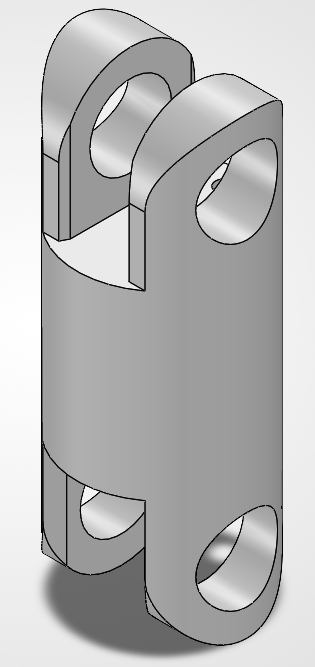
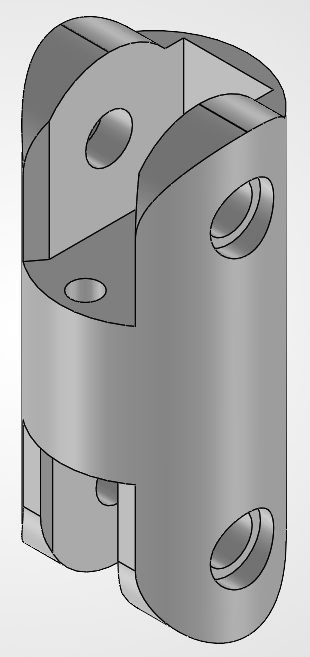
Update Neurotech finger CAD, finger prototype, and add zoomable images
- Add new finger CAD renders and finger prototype test photos with captions
- Update arm, finger, and palm/wrist renders
- Split Prototyping & Testing into Base and Fingers subsections
- Add zoom/pan to the lightbox for images marked zoomable (cad-arm8)
- Make project cover images open in the lightbox

diff --git a/src/components/ZoomableImage.tsx b/src/components/ZoomableImage.tsx
@@ -1,0 +1,149 @@
+import { useEffect, useRef, useState, type PointerEvent as ReactPointerEvent } from 'react'
+import { imageUrl } from '../lib/paths'
+import type { ProjectImage } from '../types'
+import Icon from './Icon'
+
+const MIN = 1
+const MAX = 5
+const CLICK_ZOOM = 2.5
+
+interface View {
+  scale: number
+  x: number
+  y: number
+}
+
+/**
+ * An image inside the lightbox that can be zoomed (scroll wheel, pinch, click,
+ * or the +/- buttons) and panned by dragging once zoomed in.
+ */
+export default function ZoomableImage({ image }: { image: ProjectImage }) {
+  const boxRef = useRef<HTMLDivElement>(null)
+  const [view, setView] = useState<View>({ scale: 1, x: 0, y: 0 })
+  const viewRef = useRef(view)
+  viewRef.current = view
+
+  const pointers = useRef(new Map<number, { x: number; y: number }>())
+  const gesture = useRef({ moved: false, pinchDist: 0 })
+
+  /** Keep the zoomed image covering the box so it can't be dragged off-screen. */
+  const clamp = (v: View): View => {
+    const box = boxRef.current
+    if (!box) return v
+    const scale = Math.min(MAX, Math.max(MIN, v.scale))
+    const w = box.clientWidth
+    const h = box.clientHeight
+    return {
+      scale,
+      x: Math.min(0, Math.max(w - w * scale, v.x)),
+      y: Math.min(0, Math.max(h - h * scale, v.y)),
+    }
+  }
+
+  /** Zoom to `scale`, keeping the point (px, py) in the box fixed under the cursor. */
+  const zoomAt = (scale: number, px: number, py: number) => {
+    const v = viewRef.current
+    const next = Math.min(MAX, Math.max(MIN, scale))
+    const ratio = next / v.scale
+    setView(clamp({ scale: next, x: px - (px - v.x) * ratio, y: py - (py - v.y) * ratio }))
+  }
+
+  const zoomCenter = (scale: number) => {
+    const box = boxRef.current
+    if (box) zoomAt(scale, box.clientWidth / 2, box.clientHeight / 2)
+  }
+
+  const localPoint = (clientX: number, clientY: number) => {
+    const rect = boxRef.current!.getBoundingClientRect()
+    return { x: clientX - rect.left, y: clientY - rect.top }
+  }
+
+  // Wheel zoom needs a non-passive listener so the page doesn't scroll.
+  useEffect(() => {
+    const box = boxRef.current
+    if (!box) return
+    const onWheel = (e: WheelEvent) => {
+      e.preventDefault()
+      const p = localPoint(e.clientX, e.clientY)
+      zoomAt(viewRef.current.scale * Math.exp(-e.deltaY * 0.0015), p.x, p.y)
+    }
+    box.addEventListener('wheel', onWheel, { passive: false })
+    return () => box.removeEventListener('wheel', onWheel)
+  })
+
+  const pinchDistance = () => {
+    const [a, b] = [...pointers.current.values()]
+    return Math.hypot(a.x - b.x, a.y - b.y)
+  }
+
+  const onPointerDown = (e: ReactPointerEvent<HTMLDivElement>) => {
+    e.currentTarget.setPointerCapture(e.pointerId)
+    pointers.current.set(e.pointerId, { x: e.clientX, y: e.clientY })
+    if (pointers.current.size === 1) gesture.current.moved = false
+    if (pointers.current.size === 2) gesture.current.pinchDist = pinchDistance()
+  }
+
+  const onPointerMove = (e: ReactPointerEvent<HTMLDivElement>) => {
+    const prev = pointers.current.get(e.pointerId)
+    if (!prev) return
+    const dx = e.clientX - prev.x
+    const dy = e.clientY - prev.y
+    pointers.current.set(e.pointerId, { x: e.clientX, y: e.clientY })
+    if (Math.abs(dx) + Math.abs(dy) > 2) gesture.current.moved = true
+
+    if (pointers.current.size === 2) {
+      const dist = pinchDistance()
+      const [a, b] = [...pointers.current.values()]
+      const mid = localPoint((a.x + b.x) / 2, (a.y + b.y) / 2)
+      if (gesture.current.pinchDist > 0) zoomAt(viewRef.current.scale * (dist / gesture.current.pinchDist), mid.x, mid.y)
+      gesture.current.pinchDist = dist
+    } else if (pointers.current.size === 1 && viewRef.current.scale > 1) {
+      const v = viewRef.current
+      setView(clamp({ ...v, x: v.x + dx, y: v.y + dy }))
+    }
+  }
+
+  const onPointerUp = (e: ReactPointerEvent<HTMLDivElement>) => {
+    const wasTap = pointers.current.size === 1 && !gesture.current.moved
+    pointers.current.delete(e.pointerId)
+    if (pointers.current.size < 2) gesture.current.pinchDist = 0
+    if (wasTap) {
+      const p = localPoint(e.clientX, e.clientY)
+      if (viewRef.current.scale > 1) setView({ scale: 1, x: 0, y: 0 })
+      else zoomAt(CLICK_ZOOM, p.x, p.y)
+    }
+  }
+
+  const zoomed = view.scale > 1
+
+  return (
+    <div className="zoom">
+      <div
+        ref={boxRef}
+        className={`zoom__box ${zoomed ? 'zoom__box--zoomed' : ''}`}
+        onPointerDown={onPointerDown}
+        onPointerMove={onPointerMove}
+        onPointerUp={onPointerUp}
+        onPointerCancel={onPointerUp}
+      >
+        <img
+          src={imageUrl(image.src)}
+          alt={image.alt ?? image.caption ?? ''}
+          draggable={false}
+          style={{ transform: `translate(${view.x}px, ${view.y}px) scale(${view.scale})` }}
+        />
+      </div>
+
+      <div className="zoom__controls">
+        <button type="button" onClick={() => zoomCenter(view.scale / 1.5)} disabled={!zoomed} aria-label="Zoom out">
+          <Icon name="minus" size={18} />
+        </button>
+        <span className="zoom__level">{Math.round(view.scale * 100)}%</span>
+        <button type="button" onClick={() => zoomCenter(view.scale * 1.5)} disabled={view.scale >= MAX} aria-label="Zoom in">
+          <Icon name="plus" size={18} />
+        </button>
+        <span className="zoom__hint">Scroll, pinch, or click to zoom · drag to pan</span>
+      </div>
+    </div>
+  )
+}

diff --git a/src/content/projects/neurotech.ts b/src/content/projects/neurotech.ts
@@ -15,7 +15,7 @@ const neurotech = {
   team: 'Prosthetic, Mechanical',
   tags: ['Assistive Tech', 'CAD', 'Prototyping', '3D Printing', 'User-Centered Design'],
   tools: ['SolidWorks', 'SolidWorks Simulation', '3D printing'],
-  cover: { src: 'neurotech/cad-arm8.png' },
+  cover: { src: 'neurotech/cad-arm8.png', caption: 'Basic Forearm to Fingers Model', zoomable: true },
 
   /*
   highlights: [
@@ -73,7 +73,7 @@ const neurotech = {
       paragraphs: [
         'Designed, conducted FEA analyses (WIP), and produced GD&T engineering drawings (TBD) in SolidWorks.',
       ],
-      images: [{ src: 'neurotech/cad-arm8.png', caption: 'Basic Forearm to Fingers Model' }],
+      images: [{ src: 'neurotech/cad-arm8.png', caption: 'Basic Forearm to Fingers Model', zoomable: true }],
       centered: true,
       subsections: [
         {
@@ -81,12 +81,16 @@ const neurotech = {
           images: [
             { src: 'neurotech/cad-finger3.png', caption: 'Proximal Finger Segment' },
             { src: 'neurotech/cad-finger4.png', caption: 'Middle Finger Segment' },
+            { src: 'neurotech/cad-finger7.png', caption: 'Distal Finger Segment (Fingertip)' },
+            { src: 'neurotech/cad-finger6.png', caption: 'Complete Finger Flexion, Side View' },
+            { src: 'neurotech/cad-finger5-front.png', caption: 'Four-Finger Assembly Mounted to Palm Frame, Front View' },
+            { src: 'neurotech/cad-finger5-back.png', caption: 'Four-Finger Assembly Mounted to Palm Frame, Back View' },
           ],
           centered: true,
         },
         {
           title: 'Palm/Wrist',
-          images: [{ src: 'neurotech/cad-palmwrist7.png', caption: 'Hand-Fingers Assembly (In Progress)' }],
+          images: [{ src: 'neurotech/cad-palmwrist7.png', caption: 'Forearm-Wrist-Palm Assembly (In Progress)' }],
           centered: true,
         },
         {
@@ -121,14 +125,30 @@ const neurotech = {
     {
       title: 'Prototyping & Testing',
       // status: 'In Progress',
-      paragraphs: [
-        'For our first prototype, I focused more on depicting the size of the base to visualize how the rest of the prosthetic should be sized. In future designs and prototypes, I will implement housing for electrical components within the base to increase the weight and stability of the foundation.',
+      subsections: [
+        {
+          title: 'Base',
+          paragraphs: [
+            'For our first prototype, I focused more on depicting the size of the base to visualize how the rest of the prosthetic should be sized. In future designs and prototypes, I will implement housing for electrical components within the base to increase the weight and stability of the foundation.',
+          ],
+          images: [
+            { src: 'neurotech/baseprototype1.jpg', caption: 'Base Prototype, Arm Rotation About z-axis' },
+            { src: 'neurotech/baseprototype2.jpg', caption: 'Base Prototype, Top Casing Removed' },
+          ],
+          centered: true,
+        },
+        {
+          title: 'Fingers',
+          paragraphs: [
+            'After printing our first finger assembly prototype with a 0.004" tolerance and passing a string through its dedicated channel, we found that the fingers were fully capable of complete flexion. I then discovered that the joints actuated in the order of middle, proximal, then distal. To support the future goal of implementing grasping capabilities, I altered the tolerances along each joint such that the order would instead be proximal, middle, then distal. This is to allow the prosthetic to grip objects universally, as curling the distal segment first would appear non-humanlike when attempting to grasp smaller objects.',
+          ],
+          images: [
+            { src: 'neurotech/test-finger-uncurled.jpg', caption: 'Printed Tendon-Driven Finger on Palm Frame, Extended' },
+            { src: 'neurotech/test-finger-curled.jpg', caption: 'Printed Finger Curled by Pulling the Tendon String' },
+          ],
+          centered: true,
+        },
       ],
-      images: [
-        { src: 'neurotech/baseprototype1.jpg', caption: 'Base Prototype, Arm Rotation About z-axis' },
-        { src: 'neurotech/baseprototype2.jpg', caption: 'Base Prototype, Top Casing Removed' },
-      ], 
-      centered: true
     },
     /* { 
       title: 'Next Steps',

diff --git a/src/pages/ProjectDetail.tsx b/src/pages/ProjectDetail.tsx
@@ -1,8 +1,10 @@
 import { useEffect, useMemo, useState } from 'react'
+import { AnimatePresence } from 'framer-motion'
 import { Link, useParams } from 'react-router-dom'
 import Gallery from '../components/Gallery'
 import Icon from '../components/Icon'
 import ImageFrame from '../components/ImageFrame'
+import Lightbox from '../components/Lightbox'
 import Reveal from '../components/Reveal'
 import { designProjects, getProject, industryExperience } from '../content/projects'
 import { projectPath, slugify } from '../lib/paths'
@@ -28,6 +30,7 @@ export default function ProjectDetail() {
 function ProjectPage({ project }: { project: Project }) {
   const sectionIds = useMemo(() => uniqueIds(project.sections.map((s) => s.title)), [project])
   const activeId = useActiveSection(sectionIds)
+  const [coverOpen, setCoverOpen] = useState(false)
 
   // Previous/next only step through the same group (projects, or industry experience).
   const isIndustry = project.category === 'industry'
@@ -97,9 +100,15 @@ function ProjectPage({ project }: { project: Project }) {
 
       {project.cover && (
         <Reveal className="project__cover">
-          <ImageFrame image={project.cover} fit="contain" eager />
+          <ImageFrame image={project.cover} fit="contain" eager onOpen={() => setCoverOpen(true)} />
         </Reveal>
       )}
+
+      <AnimatePresence>
+        {coverOpen && project.cover && (
+          <Lightbox images={[project.cover]} index={0} onClose={() => setCoverOpen(false)} onChange={() => {}} />
+        )}
+      </AnimatePresence>
 
       <div className="project__layout">
         <aside className="project__toc" aria-label="On this page">

diff --git a/src/styles/global.css b/src/styles/global.css
@@ -1040,3 +1040,80 @@ code {
     transition-duration: 0.01ms !important;
   }
 }
+
+/* ── Zoomable lightbox image ─────────────────────────────────────────────── */
+
+.zoom__box {
+  position: relative;
+  width: fit-content;
+  max-width: 100%;
+  margin: 0 auto;
+  overflow: hidden;
+  touch-action: none;
+  cursor: zoom-in;
+  user-select: none;
+}
+
+.zoom__box--zoomed {
+  cursor: grab;
+}
+
+.zoom__box--zoomed:active {
+  cursor: grabbing;
+}
+
+.zoom__box img {
+  display: block;
+  max-width: 100%;
+  max-height: calc(100vh - 200px);
+  transform-origin: 0 0;
+  transition: transform 0.08s ease-out;
+}
+
+.zoom__controls {
+  display: flex;
+  align-items: center;
+  justify-content: center;
+  gap: 10px;
+  margin-top: 12px;
+  color: #d3d7dc;
+  font-size: 0.85rem;
+}
+
+.zoom__controls button {
+  display: grid;
+  place-items: center;
+  width: 34px;
+  height: 34px;
+  border-radius: 999px;
+  border: 1px solid rgba(255, 255, 255, 0.15);
+  background: rgba(255, 255, 255, 0.06);
+  color: #e3e6ea;
+  cursor: pointer;
+}
+
+.zoom__controls button:hover:not(:disabled) {
+  background: rgba(255, 255, 255, 0.14);
+}
+
+.zoom__controls button:disabled {
+  opacity: 0.35;
+  cursor: default;
+}
+
+.zoom__level {
+  min-width: 3.5em;
+  text-align: center;
+  font-family: var(--font-mono);
+}
+
+.zoom__hint {
+  color: #9aa1aa;
+  margin-left: 8px;
+}
+
+@media (max-width: 640px) {
+  .zoom__hint {
+    display: none;
+  }
+}

diff --git a/src/components/Lightbox.tsx b/src/components/Lightbox.tsx
@@ -4,6 +4,7 @@ import { createPortal } from 'react-dom'
 import type { ProjectImage } from '../types'
 import Icon from './Icon'
 import ImageFrame from './ImageFrame'
+import ZoomableImage from './ZoomableImage'
 
 interface LightboxProps {
   images: ProjectImage[]
@@ -69,7 +70,11 @@ export default function Lightbox({ images, index, onClose, onChange }: LightboxP
       )}
 
       <figure className="lightbox__figure" onClick={(e) => e.stopPropagation()}>
-        <ImageFrame key={image.src} image={image} fit="natural" className="lightbox__frame" eager />
+        {image.zoomable ? (
+          <ZoomableImage key={image.src} image={image} />
+        ) : (
+          <ImageFrame key={image.src} image={image} fit="natural" className="lightbox__frame" eager />
+        )}
         {(image.caption || many) && (
           <figcaption>
             {image.caption}

diff --git a/src/components/Icon.tsx b/src/components/Icon.tsx
@@ -8,6 +8,8 @@ const paths = {
   chevronRight: <path d="m9 18 6-6-6-6" />,
   menu: <path d="M4 7h16M4 12h16M4 17h16" />,
   close: <path d="M6 6l12 12M18 6 6 18" />,
+  plus: <path d="M12 5v14M5 12h14" />,
+  minus: <path d="M5 12h14" />,
   external: <path d="M14 4h6v6M20 4l-9 9M18 14v5a1 1 0 0 1-1 1H5a1 1 0 0 1-1-1V7a1 1 0 0 1 1-1h5" />,
   download: <path d="M12 4v11M7 10l5 5 5-5M5 20h14" />,
   phone: (

diff --git a/src/types.ts b/src/types.ts
@@ -13,6 +13,8 @@ export interface ProjectImage {
   caption?: string
   /** Screen-reader description. Falls back to the caption. */
   alt?: string
+  /** true = in the full-screen viewer, the image can be zoomed and panned (good for detailed CAD). */
+  zoomable?: boolean
 }
 
 export interface ProjectSection {
